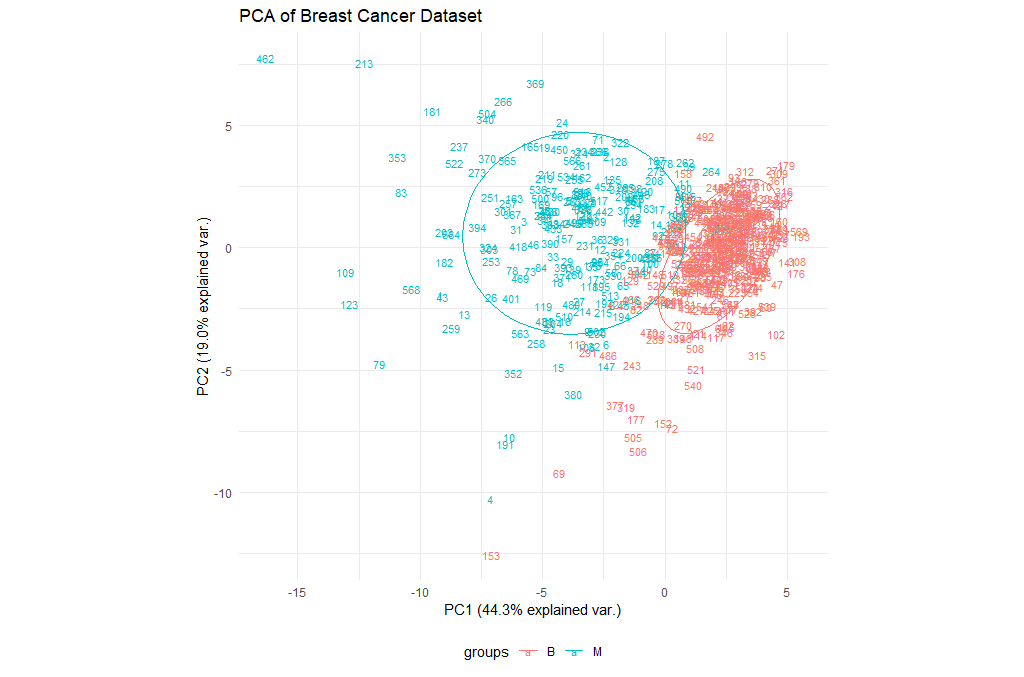
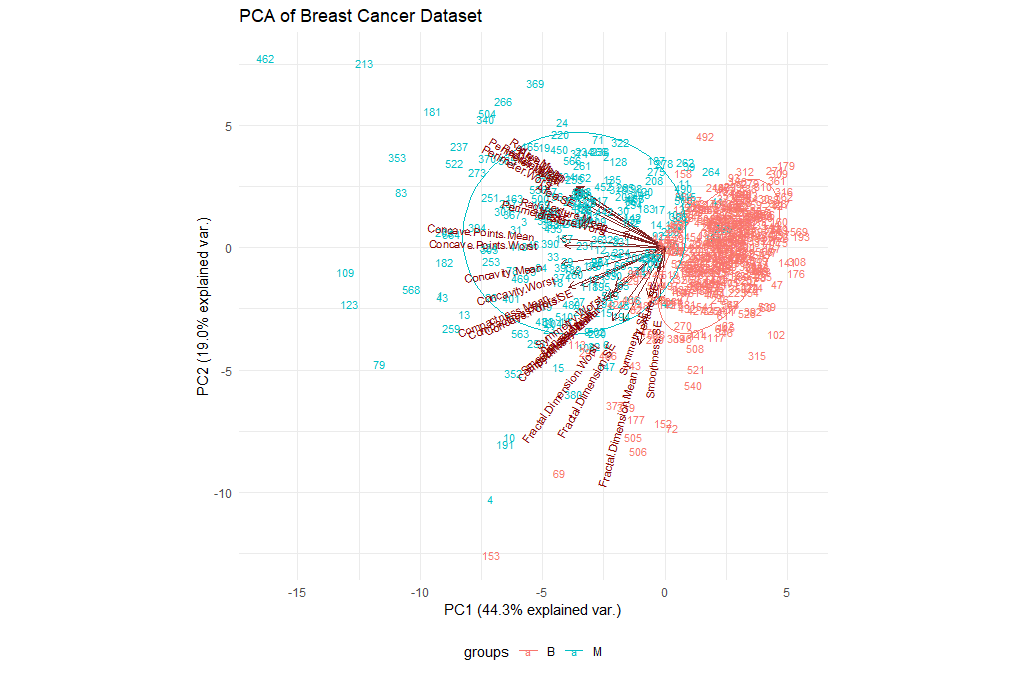
Updated Ep3, fixed figure PCA

Changed region(s): [[0.4062, 0.1861, 0.6562, 0.6824]]

diff --git a/episodes/03-eda-unsupervised-learning.md b/episodes/03-eda-unsupervised-learning.md
@@ -268,7 +268,7 @@ ggbiplot(ppv_pca, choices=c(1, 2),
          ellipse=TRUE,
          groups = breastCancerData$Diagnosis,
          obs.scale = 1,
-         var.axes=FALSE, var.scale = 1) +
+         var.axes=TRUE, var.scale = 1) +
   ggtitle("PCA of Breast Cancer Dataset")+
   theme_minimal()+
   theme(legend.position = "bottom")
@@ -276,8 +276,10 @@ ggbiplot(ppv_pca, choices=c(1, 2),
 
 ![Visualization of the first two PCs on the UCI Breast Cancer dataset](https://raw.githubusercontent.com/fpsom/IntroToMachineLearning/gh-pages/static/images/pc12Visualization_all.png "Visualization of the first two PCs on the UCI Breast Cancer dataset")
 
-_Question: **Do you see any differences?**_
-
+| **Exercise**  |   |
+|--------|----------|
+| 1 | Try changing the parameters of the plot. For example, check the `choices` and the `var.scale`. Is there an impact? What does this mean?|
+| 2 | We have been using the entire table of data. What if we restrict our analysis on the `mean` values (i.e. columns 3-12)? Is there an impact?|
 
 
 ### How could unsupervised learning be used to analyze omics data?
